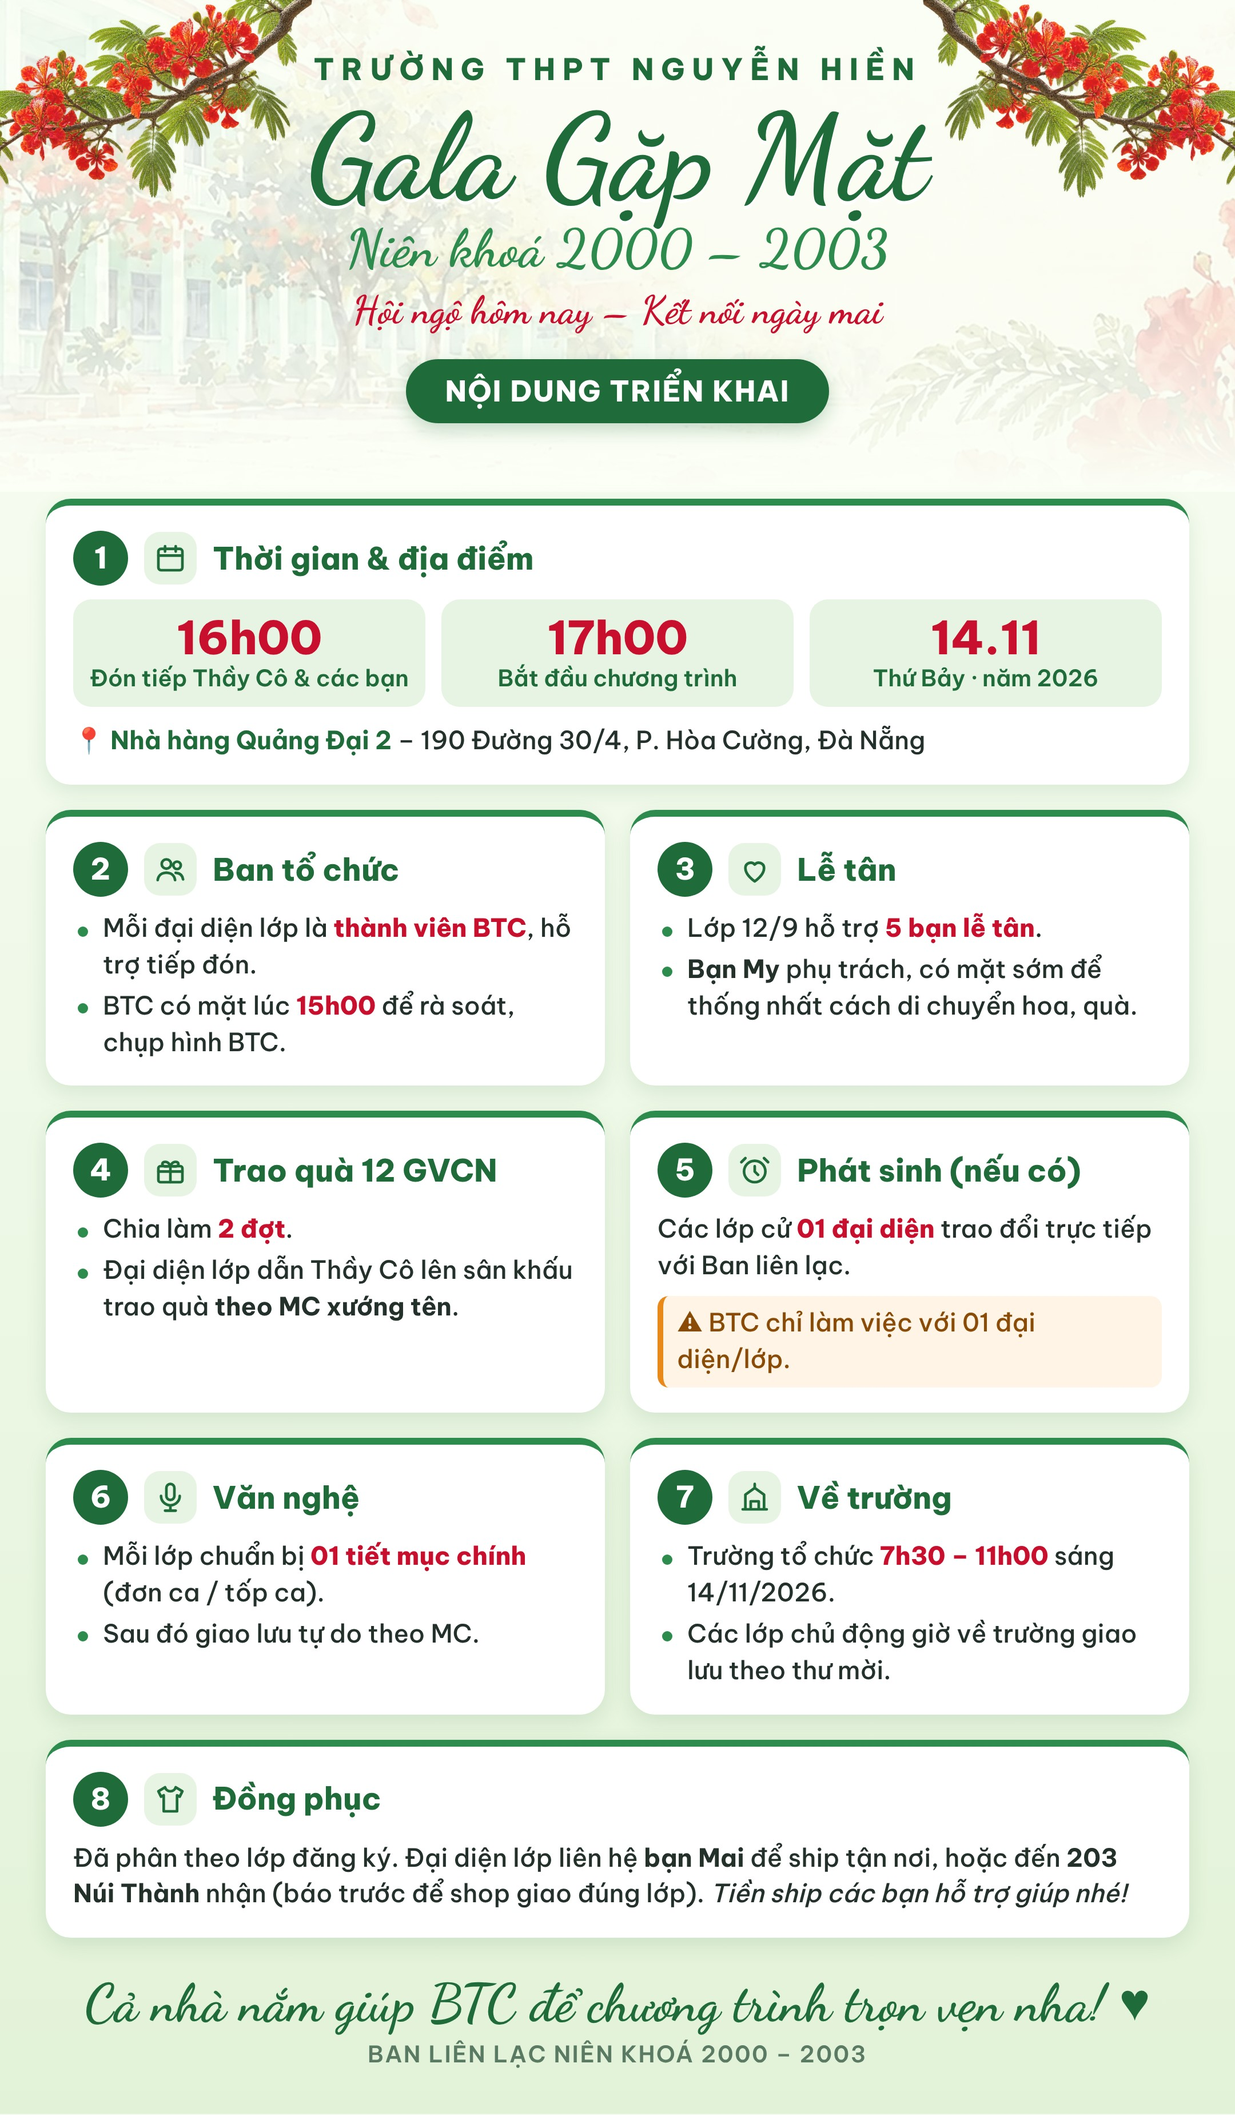
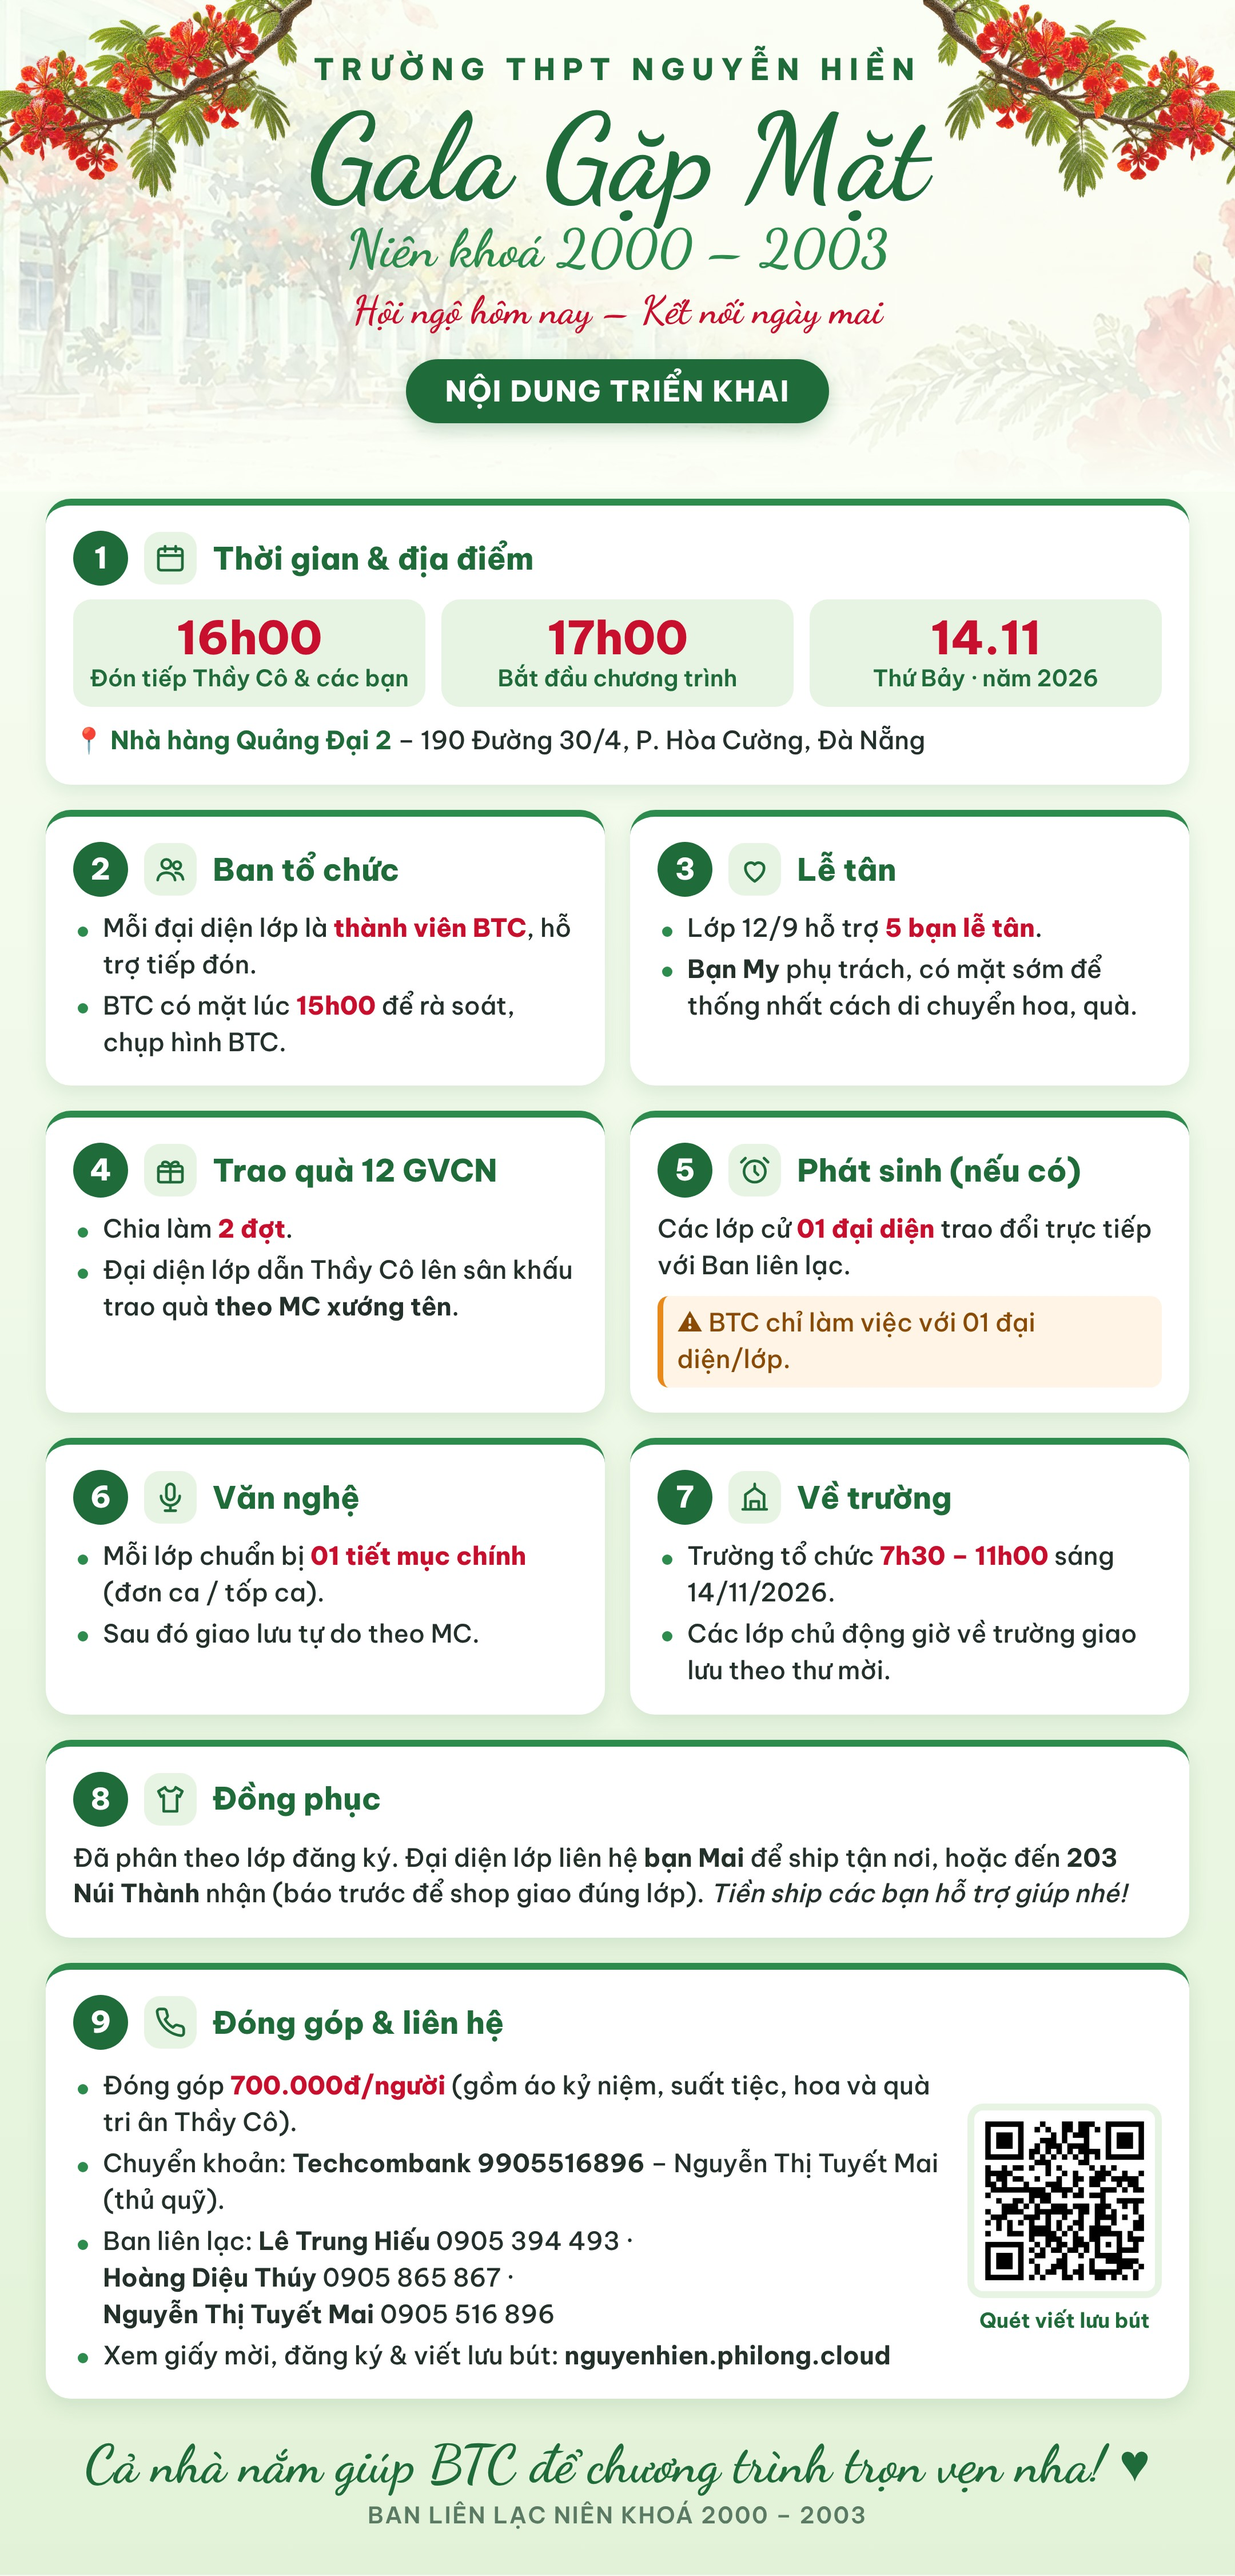
Bản tin: thêm thẻ 9 Đóng góp & liên hệ (chuyển khoản, Ban liên lạc, web + QR lưu bút)
Claude-Session: https://claude.ai/code/session_01Y1ZWh7bFy81zQtocY5fDHA

diff --git a/thiet-ke/thong-tin-hop-08-11/thong-tin.html b/thiet-ke/thong-tin-hop-08-11/thong-tin.html
@@ -35,6 +35,8 @@ b.do{color:var(--do);font-weight:800}
 .gio span{font:600 20px/1.3 'Be Vietnam Pro';color:var(--x)}
 .dd{margin-top:14px;font:600 23px/1.4 'Be Vietnam Pro'}.dd b{color:var(--x)}
 .luu{margin-top:10px;background:#FFF4E5;border-left:5px solid #E8891A;border-radius:10px;padding:8px 12px;font:600 20px/1.4 'Be Vietnam Pro';color:#8A4B06}
+.lh9{display:flex;gap:22px;align-items:center}.lh9>div{flex:1}.lh9 figure{flex:none;text-align:center}.lh9 img{width:170px;height:170px;border:6px solid var(--xn);border-radius:14px}.lh9 figcaption{font:700 18px 'Be Vietnam Pro';color:var(--x);margin-top:4px}
+.nw{white-space:nowrap}
 .ket{text-align:center;margin-top:30px;font:700 46px 'Dancing Script',cursive;color:var(--x)}
 .ket small{display:block;font:600 20px 'Be Vietnam Pro';color:#5A7A63;margin-top:4px;letter-spacing:.06em}
 </style></head><body><div class="k" id="k">
@@ -72,6 +74,13 @@ b.do{color:var(--do);font-weight:800}
  <div class="the ca"><div class="td"><span class="so">8</span><span class="ic"><svg viewBox="0 0 24 24"><path d="M8 3 3 6l2 4 2-1v12h10V9l2 1 2-4-5-3c-.5 1.7-2 3-4 3S8.5 4.7 8 3z"/></svg></span><h2>Đồng phục</h2></div>
   <p>Đã phân theo lớp đăng ký. Đại diện lớp liên hệ <b>bạn Mai</b> để ship tận nơi, hoặc đến <b>203 Núi Thành</b> nhận (báo trước để shop giao đúng lớp). <i>Tiền ship các bạn hỗ trợ giúp nhé!</i></p></div>
 
+ <div class="the ca"><div class="td"><span class="so">9</span><span class="ic"><svg viewBox="0 0 24 24"><path d="M22 16.9v3a2 2 0 0 1-2.2 2 19.8 19.8 0 0 1-8.6-3.1 19.5 19.5 0 0 1-6-6A19.8 19.8 0 0 1 2.1 4.2 2 2 0 0 1 4.1 2h3a2 2 0 0 1 2 1.7c.1.9.4 1.8.7 2.7a2 2 0 0 1-.5 2.1L8 9.8a16 16 0 0 0 6 6l1.3-1.3a2 2 0 0 1 2.1-.4c.9.3 1.8.6 2.7.7a2 2 0 0 1 1.7 2z"/></svg></span><h2>Đóng góp &amp; liên hệ</h2></div>
+  <div class="lh9"><div>
+  <ul><li>Đóng góp <b class="do">700.000đ/người</b> (gồm áo kỷ niệm, suất tiệc, hoa và quà tri ân Thầy Cô).</li>
+  <li>Chuyển khoản: <b>Techcombank 9905516896</b> – Nguyễn Thị Tuyết Mai (thủ quỹ).</li>
+  <li>Ban liên lạc: <span class="nw"><b>Lê Trung Hiếu</b> 0905 394 493</span> · <span class="nw"><b>Hoàng Diệu Thúy</b> 0905 865 867</span> · <span class="nw"><b>Nguyễn Thị Tuyết Mai</b> 0905 516 896</span></li>
+  <li>Xem giấy mời, đăng ký &amp; viết lưu bút: <b>nguyenhien.philong.cloud</b></li></ul></div>
+  <figure><img src="../chuong-trinh-gala/qr-luu-but.png" alt=""><figcaption>Quét viết lưu bút</figcaption></figure></div></div>
 </div>
 <p class="ket">Cả nhà nắm giúp BTC để chương trình trọn vẹn nha! ♥<small>BAN LIÊN LẠC NIÊN KHOÁ 2000 – 2003</small></p>
 </div></body></html>
